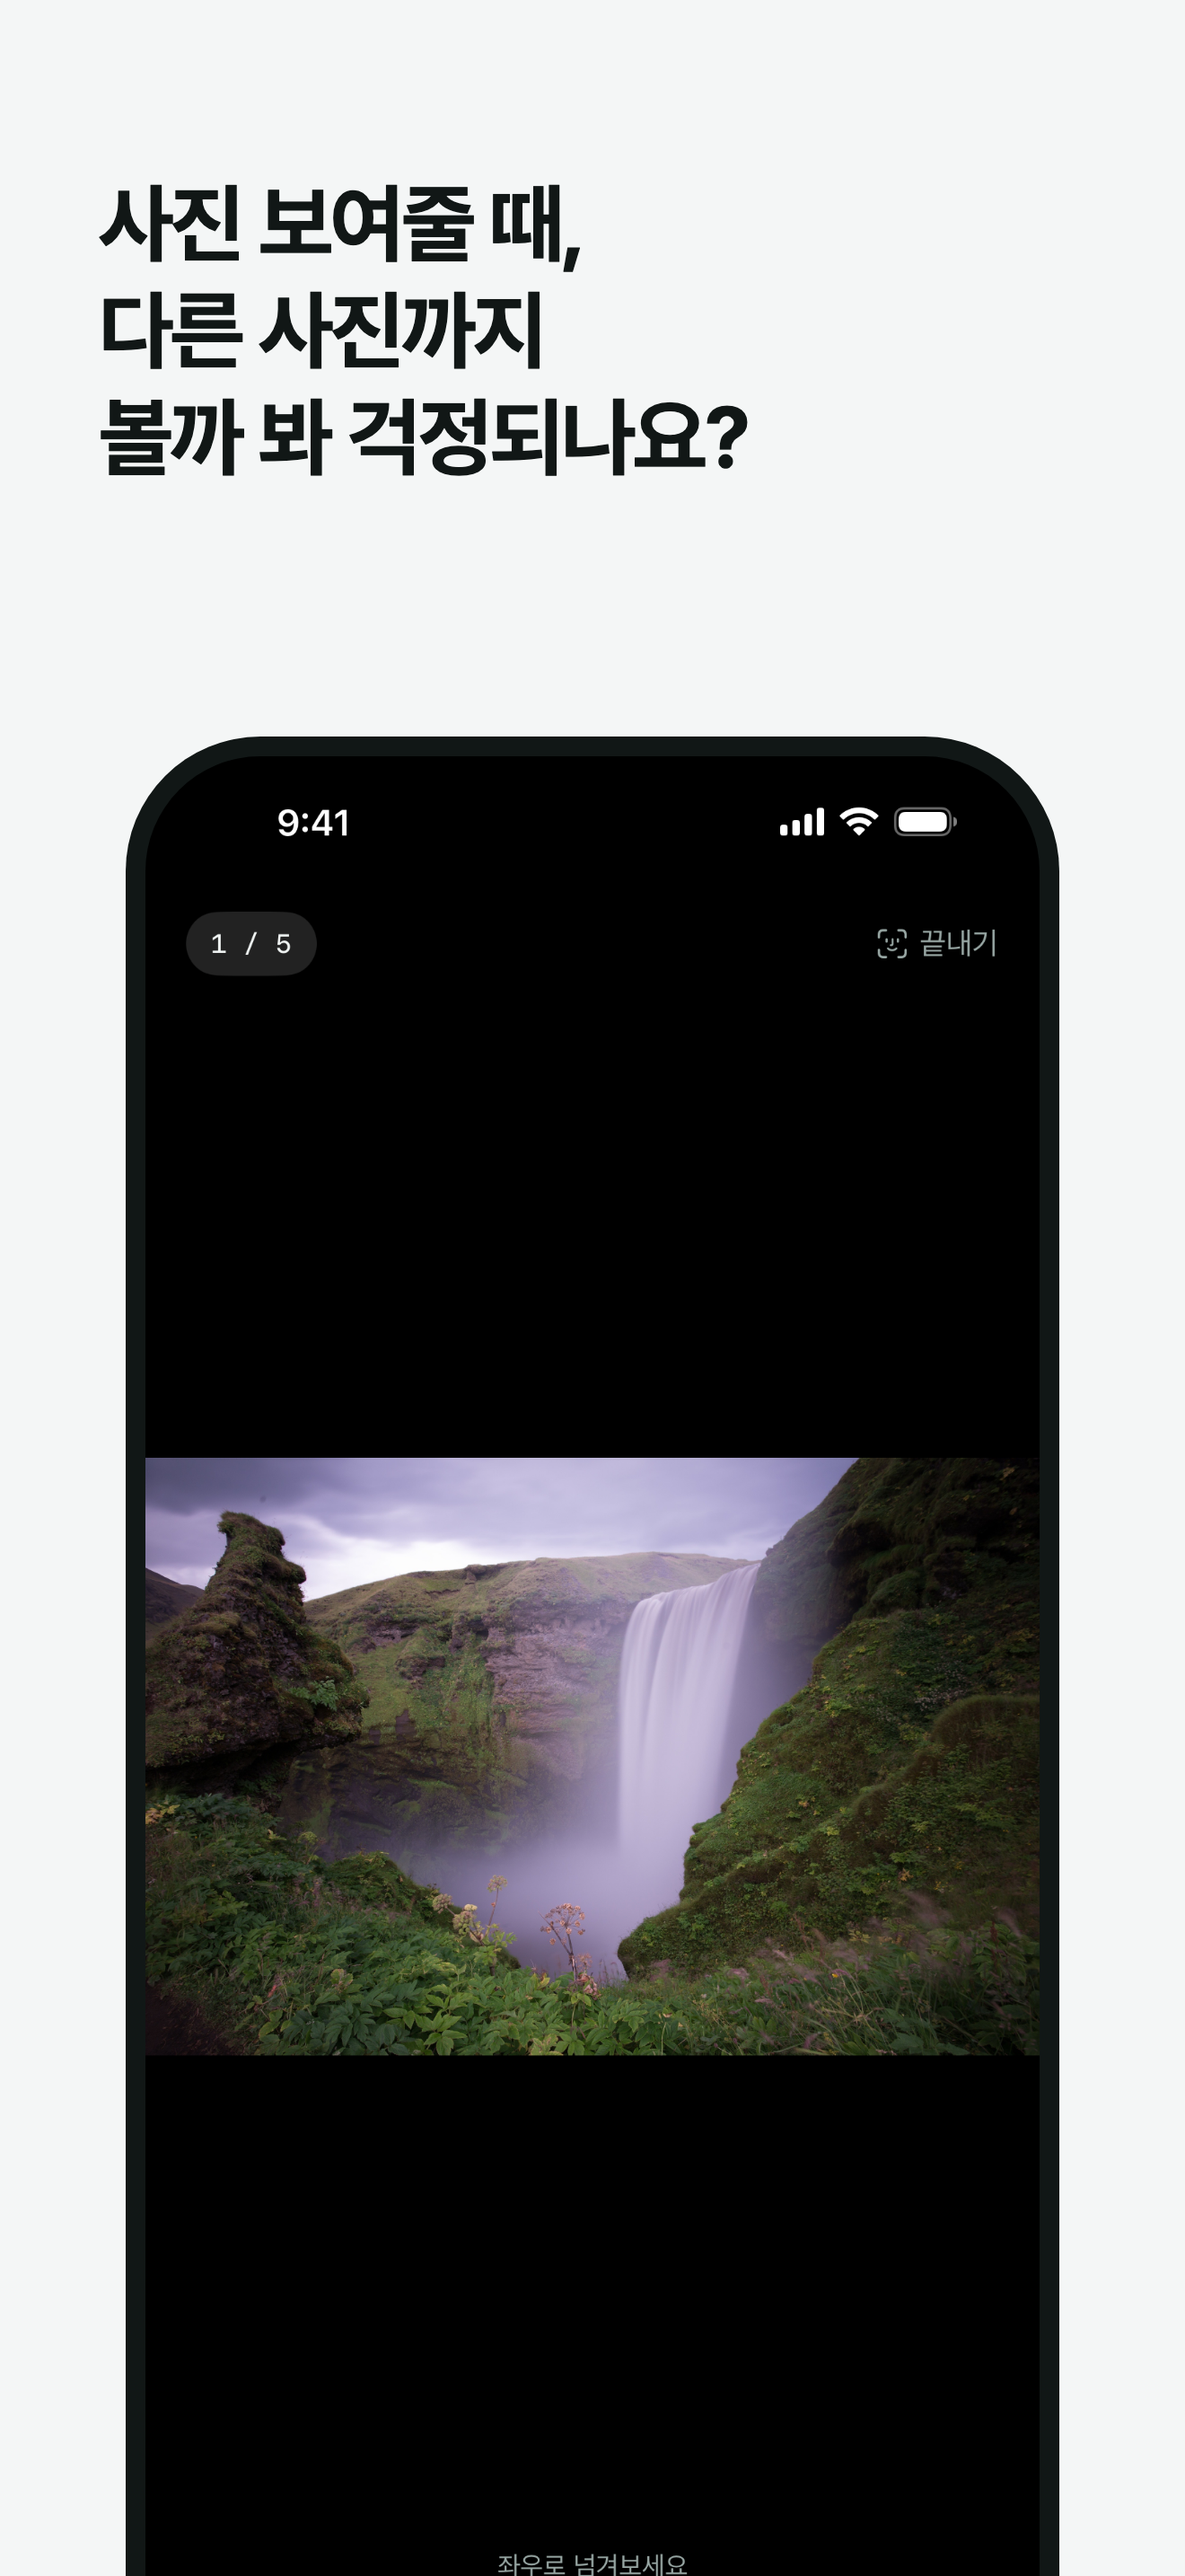
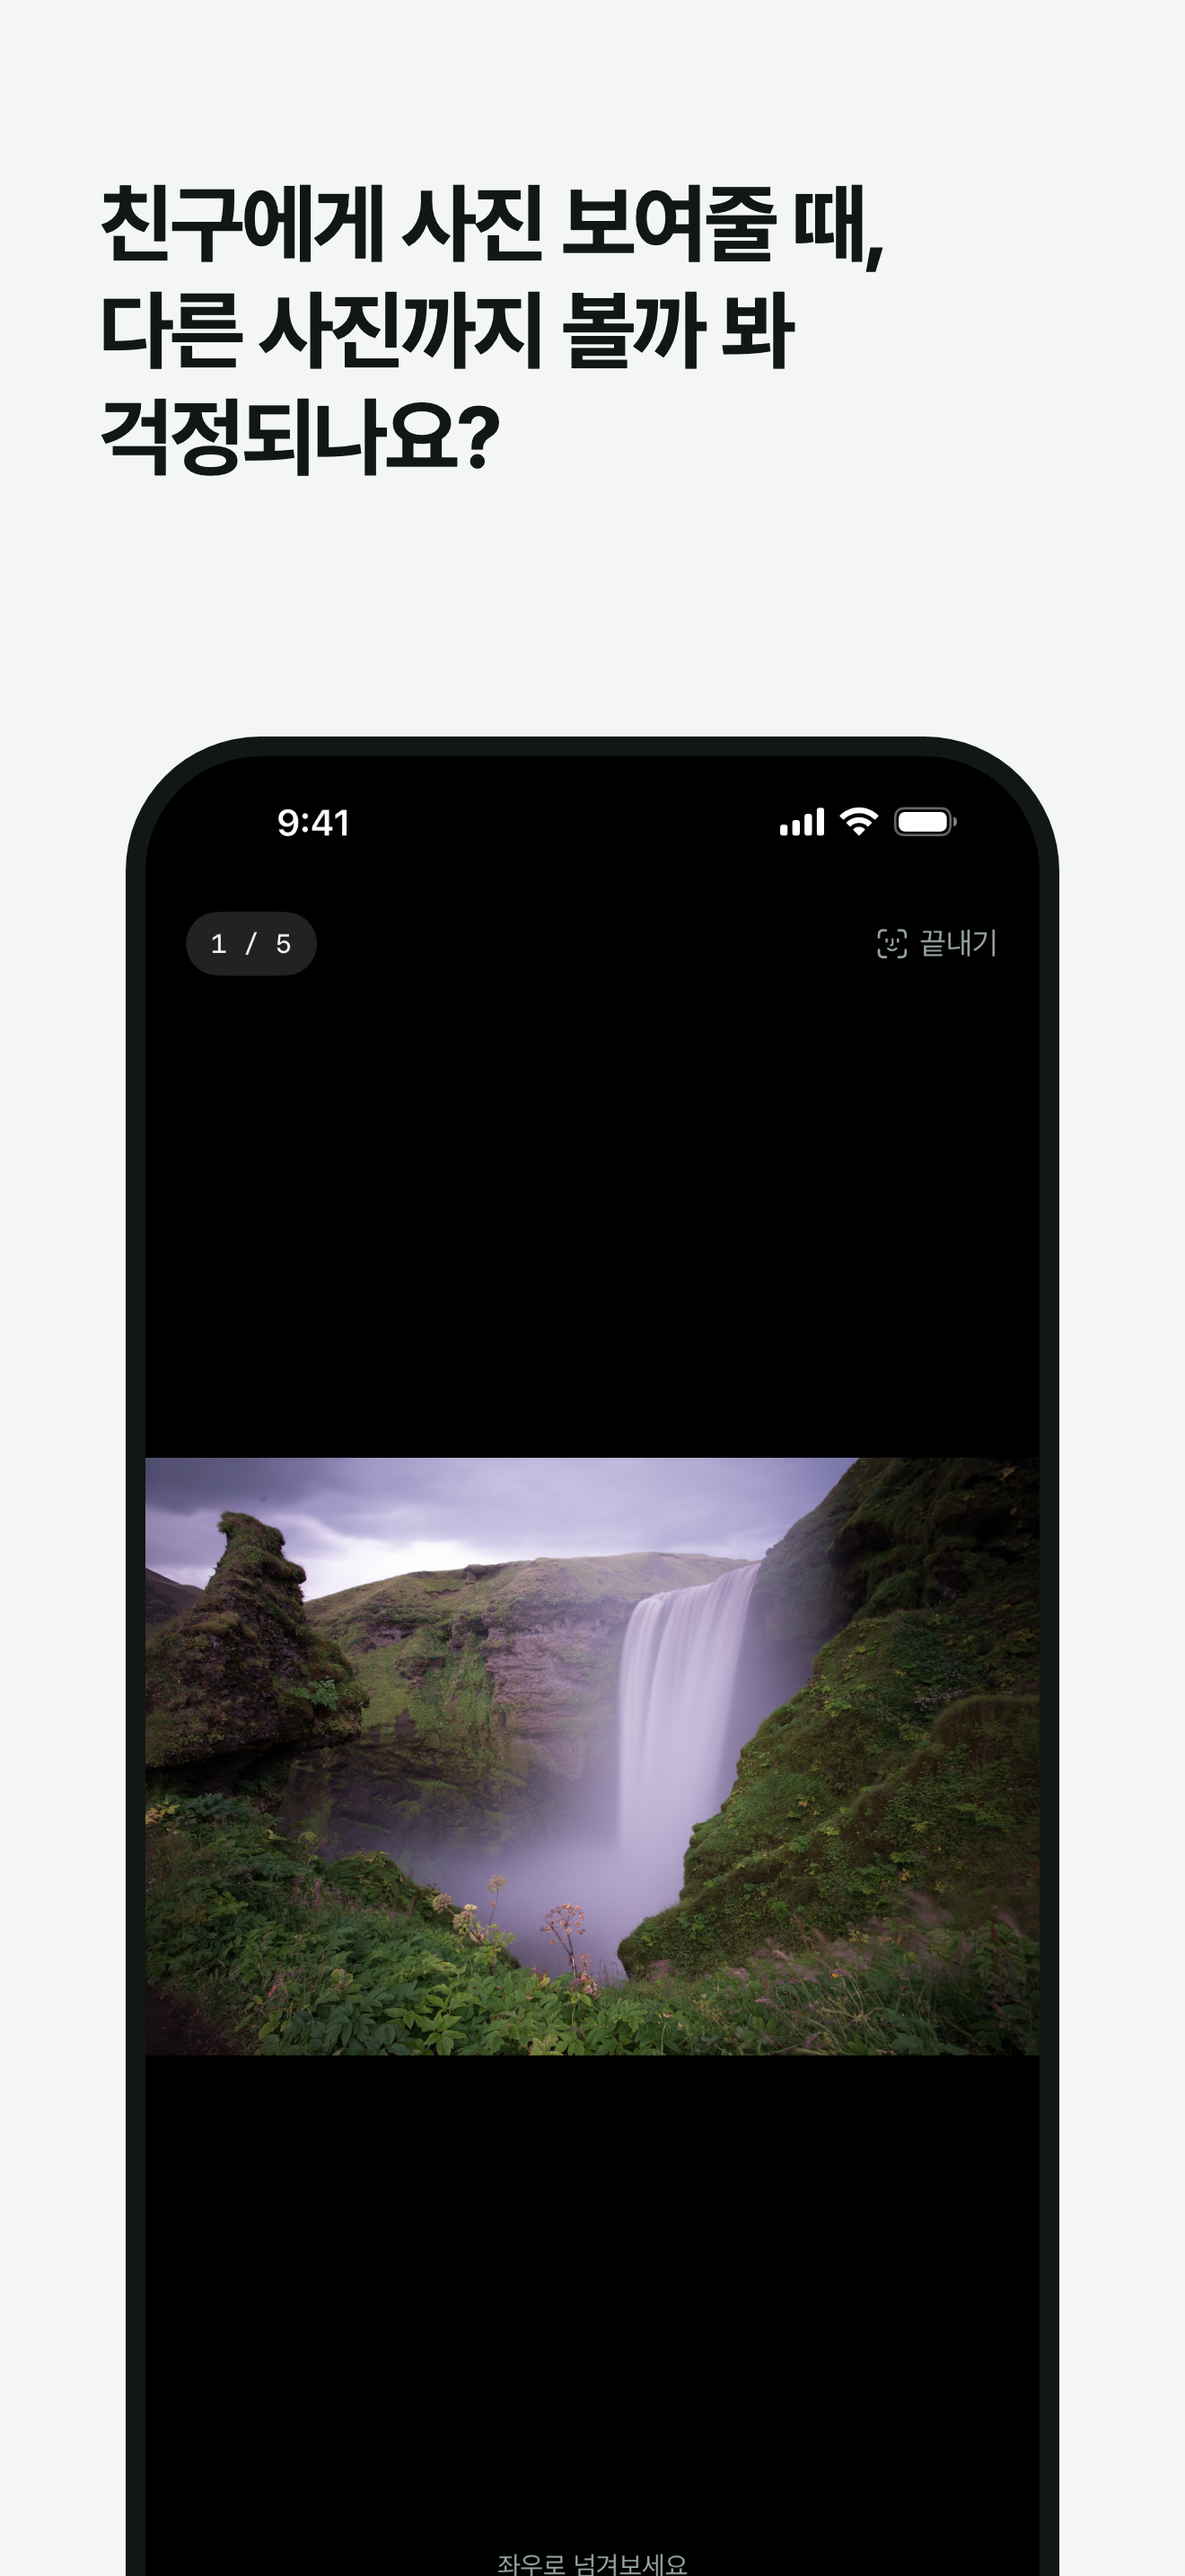
App Store screenshots: add '친구에게' to first headline

Changed region(s): [[0.0932, 0.0621, 0.7455, 0.1862]]

diff --git a/design/appstore/build.py b/design/appstore/build.py
@@ -10,7 +10,7 @@ CHROME = "/Applications/Google Chrome.app/Contents/MacOS/Google Chrome"
 
 # 빈 줄(\n\n)로 나눈 문단은 같은 크기로 쓰고 사이만 띄운다. 보조 문구는 쓰지 않는다.
 FRAMES = [
-    ("01", "viewer", "사진 보여줄 때,\n다른 사진까지\n볼까 봐 걱정되나요?", "", 0),
+    ("01", "viewer", "친구에게 사진 보여줄 때,\n다른 사진까지 볼까 봐\n걱정되나요?", "", 0),
     ("02", "home_selected", "보여주고 싶은\n사진만 골라서\n보여주세요", "", 0),
     ("03", "guide_top", "카톡 알림이나\n다른 앱으로 이동하는 게\n걱정된다면?\n\n보호 설정 방법도\n알려드려요", "", 160),
 ]

diff --git a/design/appstore/README.md b/design/appstore/README.md
@@ -6,7 +6,7 @@
 
 | # | 문구 (보조 문구 없음) | 화면 |
 |---|---|---|
-| 01 | 사진 보여줄 때, 다른 사진까지 볼까 봐 걱정되나요? | 뷰어 |
+| 01 | 친구에게 사진 보여줄 때, 다른 사진까지 볼까 봐 걱정되나요? | 뷰어 |
 | 02 | 보여주고 싶은 사진만 골라서 보여주세요 | 홈 / 선택됨 |
 | 03 | 카톡 알림이나 다른 앱으로 이동하는 게 걱정된다면? 보호 설정 방법도 알려드려요 | 보호 가이드 |
 
